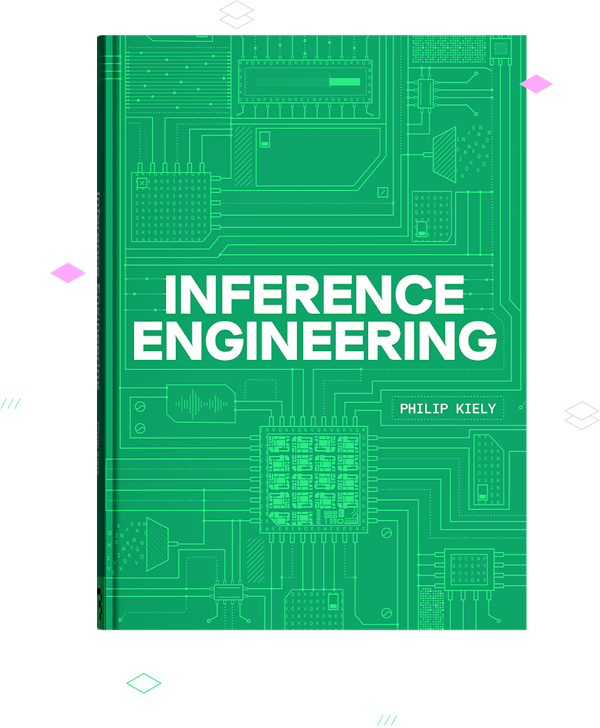
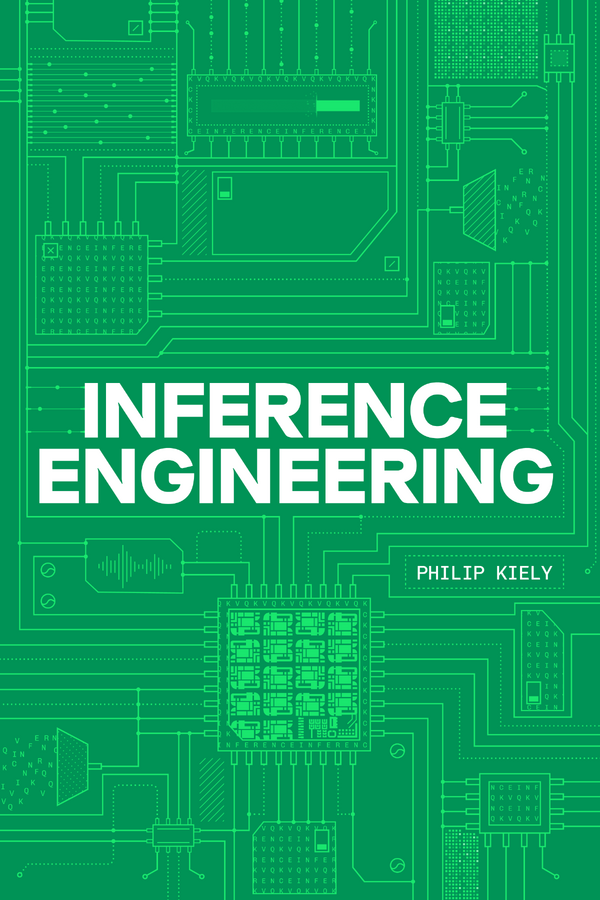
Use clean flat book cover (PDF page 1) with rounded border
Replace the 3D/floating-shapes cover render with the flat front cover extracted
from page 1 of the book PDF, resized to 600x900. Render it as a proper cover
thumbnail: rounded-lg, border, object-cover, shadow.

diff --git a/templates/bookclub/book_detail.html b/templates/bookclub/book_detail.html
@@ -20,7 +20,7 @@
       <!-- Book header -->
       <header class="mt-4 flex flex-col gap-6 sm:flex-row sm:items-start">
         <img src="{% static book.cover_image %}" alt="{{ book.title }} book cover"
-             class="h-60 w-auto flex-shrink-0 self-start object-contain drop-shadow-lg">
+             class="h-60 w-auto flex-shrink-0 self-start rounded-lg border border-border object-cover shadow-lg">
 
         <div class="flex-1">
           <div class="flex flex-wrap items-center gap-2">

diff --git a/templates/bookclub/index.html b/templates/bookclub/index.html
@@ -31,7 +31,7 @@
           <div class="flex flex-col gap-6 sm:flex-row">
             <!-- Cover -->
             <img src="{% static book.cover_image %}" alt="{{ book.title }} book cover"
-                 class="h-52 w-auto flex-shrink-0 self-start object-contain drop-shadow-lg">
+                 class="h-52 w-auto flex-shrink-0 self-start rounded-lg border border-border object-cover shadow-lg">
 
             <!-- Meta -->
             <div class="flex-1">
